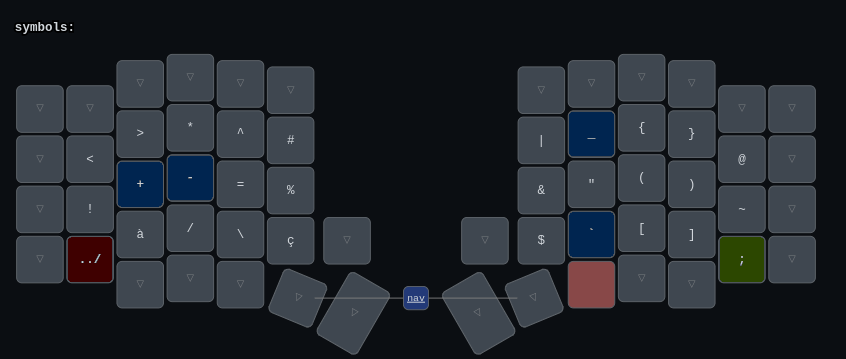
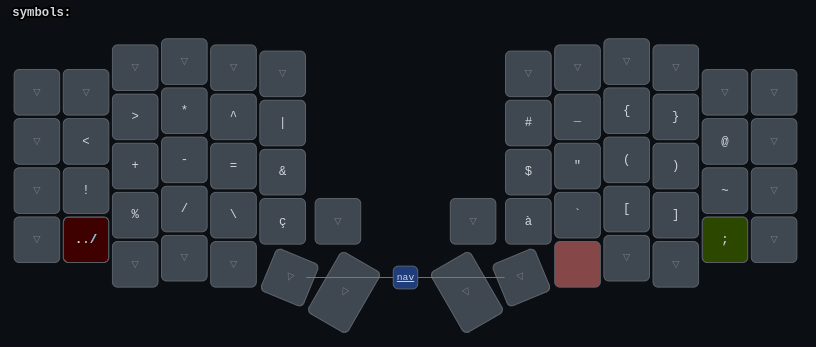
Feat: Better symbol layer

Changed region(s): [[0.0, 0.0865, 0.9804, 1.0], [0.0, 0.0288, 0.0919, 0.0865]]

diff --git a/README.md b/README.md
@@ -14,7 +14,6 @@ This my custom ZMK keymap designed for the Sofle Split Keyboard. [It can also be
 - 🟩 Redundant (oplional) keys
 - 🟨 Optional (gaming-only) keys
 - 🟥 Controversial/optional/movable keys
-- 🟦 Swappable keys
 
 ## Idea
 
@@ -34,7 +33,7 @@ This keymap is highly customizable. Here are some suggestions for modifications:
 -   **Remove Top Row**: If you're using a smaller keyboard, you can remove the top row, as it is only meant to be used while gaming.
 -   **Remove Direct Gaming Layer Access + Right Ctrl**: If you have a smaller thumb cluster, you can moove the gaming layer in the layout rotation.
 -   **Homerow Mod**: If you prefer using the homerow mod, you can replace mod taps on the thumb cluster with this method.
--   **Switching Key Positions**: Swap `-` and `+` or `_` and `` ` `` for easier memorization. `-` and `_` are used more frequently, hence there placement.
+-   **Switching Symbols**: Depending on what programming language you use, or for easier memorization, you can switch the symbols layer around.
 -   **Using a different layout**: You can switch to a different layout, any alternative layout will be a bing improvement over QWERTY/AZERTY so just pick one and enjoy.
 -   **Remove rotary encoders/display**: If you don't have rotary encoders or a display, you can simply remove their configurations.
 -   **Swapping Thumb Clusters**: Swap the thumb clusters of hands.
